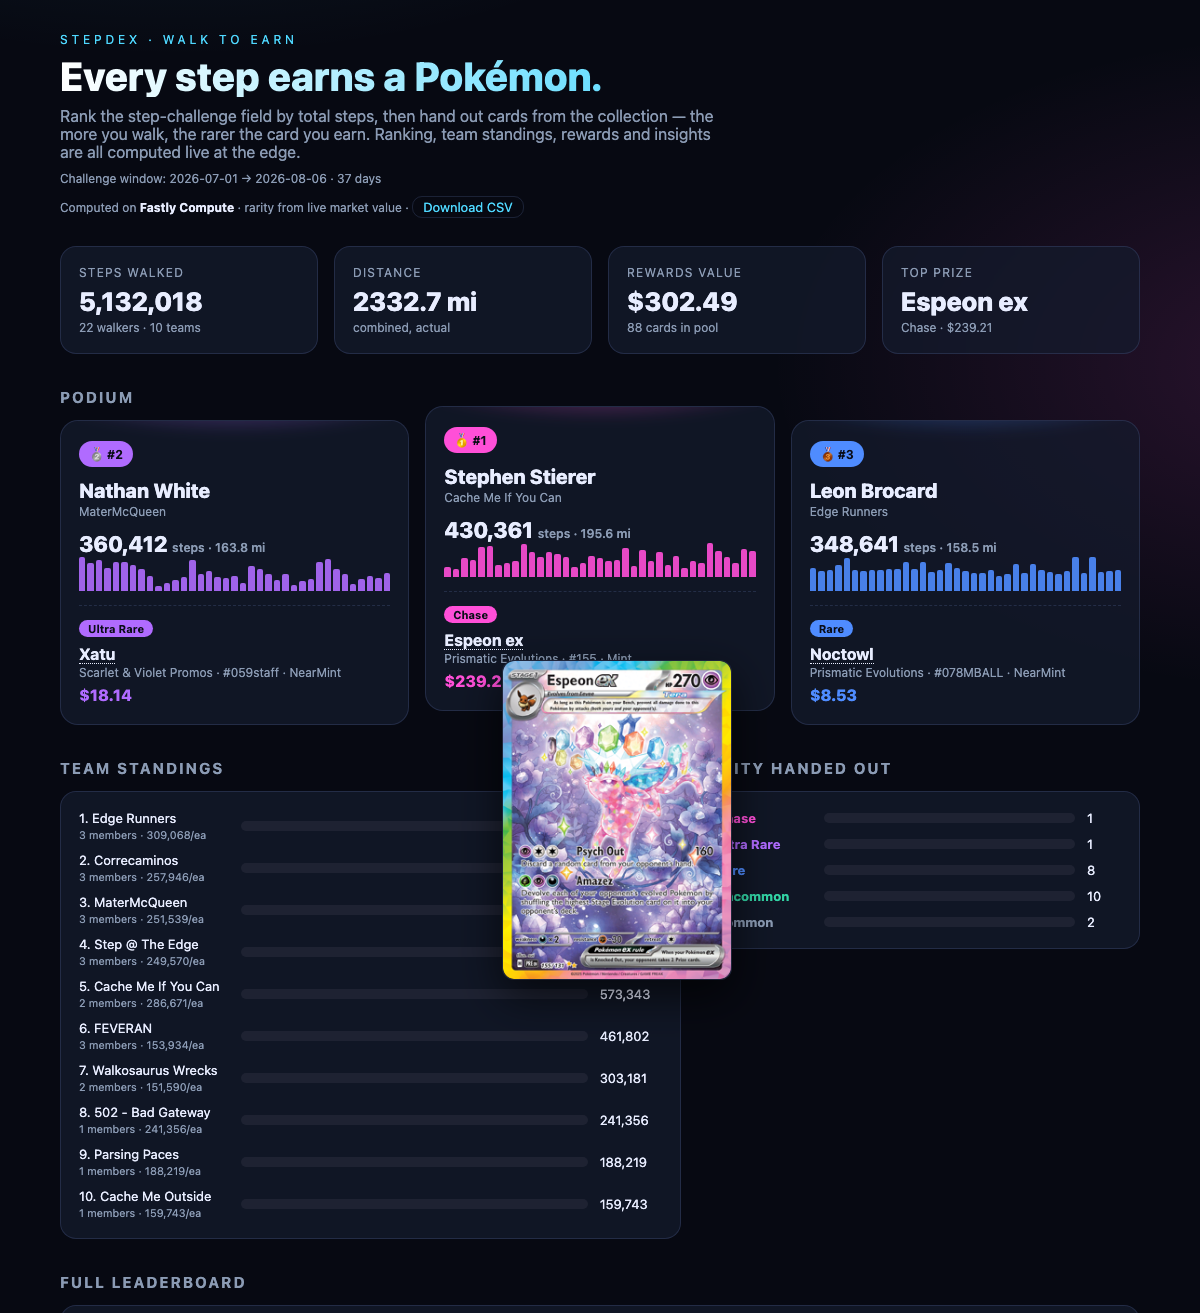
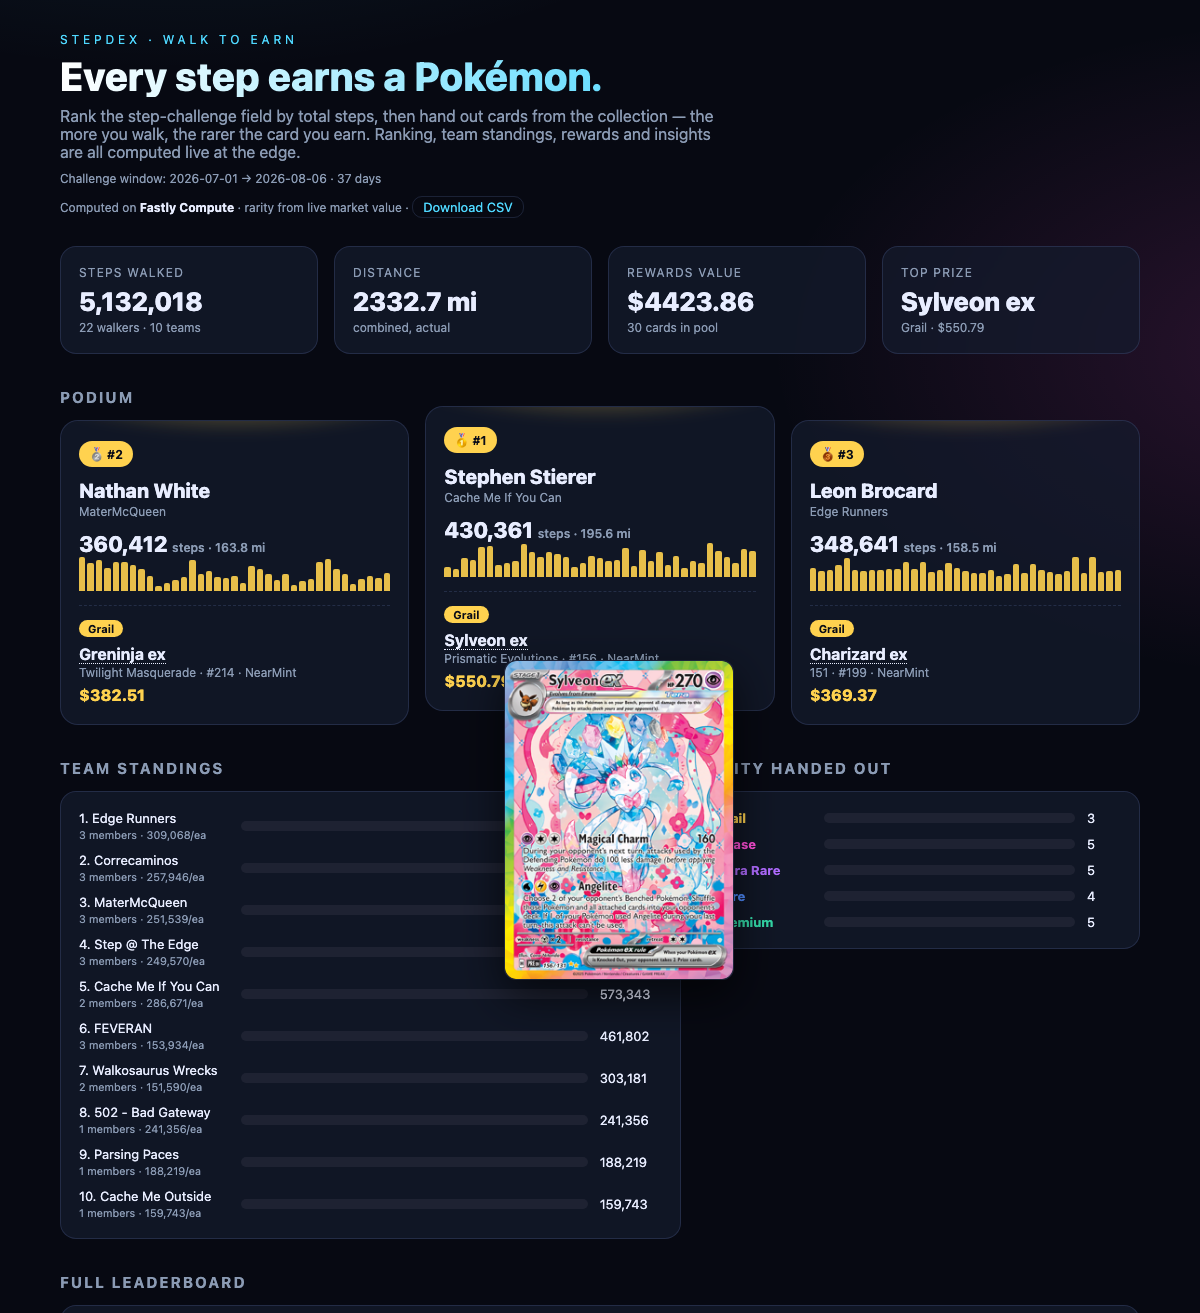
Premium card pool ($20-$1000) + re-tiered rarity
- data/pokemon.csv: replace collection pool with 30 curated desirable cards
  (real TCGplayer prices + verified art via Pokémon TCG API), spanning
  $22-$551 — Sylveon ex, Charizard ex, Pikachu ex, eeveelution SIRs, etc.
- model.rs: re-tier for the premium range
  (Grail >=350 / Chase 250-350 / Ultra Rare 150-250 / Rare 60-150 / Premium 20-60),
  add gold Grail tier
- Refresh README tiers + both screenshots

diff --git a/src/model.rs b/src/model.rs
@@ -96,11 +96,11 @@ pub struct Leaderboard {
 /// Map a market price to a rarity tier + accent color.
 fn tier_for(market: f64) -> (&'static str, &'static str) {
     match market {
-        m if m > 50.0 => ("Chase", "#ff4fd8"),
-        m if m >= 10.0 => ("Ultra Rare", "#b06bff"),
-        m if m >= 2.0 => ("Rare", "#4f8cff"),
-        m if m >= 0.5 => ("Uncommon", "#33d6a6"),
-        _ => ("Common", "#8b9bb4"),
+        m if m >= 350.0 => ("Grail", "#ffd24f"),
+        m if m >= 250.0 => ("Chase", "#ff4fd8"),
+        m if m >= 150.0 => ("Ultra Rare", "#b06bff"),
+        m if m >= 60.0 => ("Rare", "#4f8cff"),
+        _ => ("Premium", "#33d6a6"),
     }
 }
 
@@ -281,11 +281,11 @@ pub fn compute() -> Leaderboard {
     let mut total_distance_mi = 0.0;
     let mut total_reward_value = 0.0;
     let mut tiers: Vec<(&'static str, &'static str, usize)> = vec![
+        ("Grail", "#ffd24f", 0),
         ("Chase", "#ff4fd8", 0),
         ("Ultra Rare", "#b06bff", 0),
         ("Rare", "#4f8cff", 0),
-        ("Uncommon", "#33d6a6", 0),
-        ("Common", "#8b9bb4", 0),
+        ("Premium", "#33d6a6", 0),
     ];
 
     for (i, w) in walkers.iter().enumerate() {

diff --git a/README.md b/README.md
@@ -11,9 +11,9 @@ insights are all computed **at the edge**, per request.
 
 - **Rank-based podium** — walkers are sorted by total steps; #1 earns the rarest available card,
   #2 the next-rarest, and so on.
-- **Rarity = market value** — the reward pool (`data/pokemon.csv`) is sorted by each card's
-  MARKET price, bucketed into tiers: `Chase >$50 · Ultra Rare $10–50 · Rare $2–10 ·
-  Uncommon $0.50–2 · Common <$0.50`.
+- **Rarity = market value** — the reward pool (`data/pokemon.csv`) is a curated set of desirable
+  cards ($20–$1000, real TCGplayer prices), sorted by MARKET price and bucketed into tiers:
+  `Grail ≥$350 · Chase $250–350 · Ultra Rare $150–250 · Rare $60–150 · Premium $20–60`.
 - **Team standings** — walkers are aggregated by their team, ranked by combined steps.
 - **Card art on hover** — hovering any card name previews the real card image, resolved from the
   [Pokémon TCG](https://pokemontcg.io/) image CDN.
